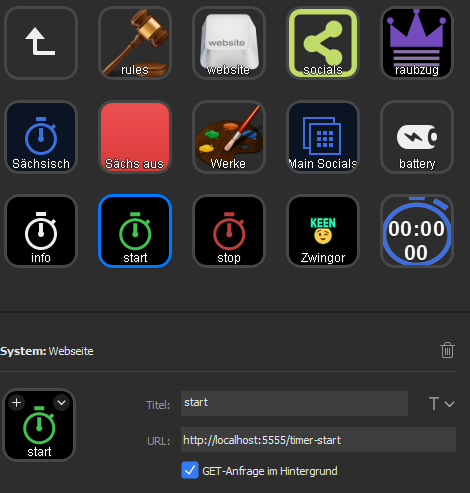
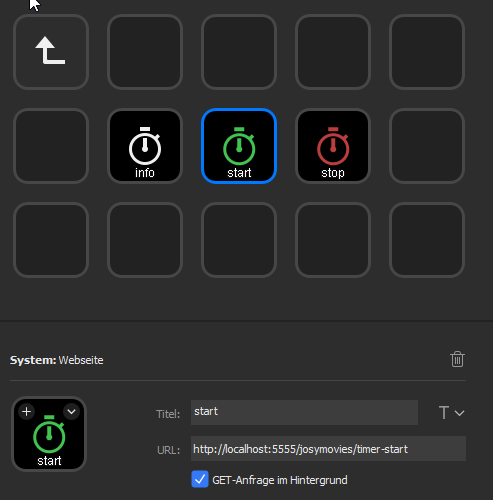
add multichannel support

diff --git a/index.js b/index.js
@@ -10,11 +10,6 @@ console.log(`Lampe385 Twitch get-request to twitch chat relay (NodeJS ${process.
 let tmi, client;
 const fs = require('fs');
 var config;
-const parseArgs = require('minimist');
-const args = parseArgs((process.argv.slice(2)));
-let { Resolver } = require('dns').promises;
-let dns = new Resolver({'timeout': 750});
-dns.setServers(['1.1.1.1', '8.8.8.8']);
 require('log-timestamp');
 
 try {
@@ -45,9 +40,9 @@ client = new tmi.Client({
 });
 client.connect();
 
+// Twitch CLIENT EVENTS
 client.on('connected', (address, port) => {
   console.log(`Connected: ${address}:${port}`);
-  // client.color('#2c46ff');
 });
 
 client.on('join', (channel, username, self) => {
@@ -70,12 +65,12 @@ process.on('SIGINT', function() {
   process.exit();
 });
 
-// Require express and create an instance of it
+
+// LOCAL WEBSERVER SETUP
 var express = require('express');
 var app = express();
 
-
-// on the request to root (localhost:3000/)
+// on the request to root (localhost:5555/)
 app.get('/', function (req, res) {
   res.send('<b>My</b> first express http server');
 });
@@ -85,28 +80,32 @@ app.listen(5555, function () {
   console.log('Twitch get-request to chat relay listening on port 5555.');
 });
 
+// Setup dynamic routes like
+// http://localhost:5555/CHANNELNAME/COMMANDNAME
 try {
   const data = fs.readFileSync('./commands.json', 'utf8');
-  const commands = JSON.parse(data);
+  const cmd_conf = JSON.parse(data);
+
   console.log("    Available Commands:")
-  commands.forEach(cmd => {
-    console.log(`${cmd.name.padStart(20, ' ')}: ${cmd.response}`);
-     app.get(`/${cmd.name}`, function (req, res) {
-       client.say(args.channel, `${cmd.response}`);
-       res.send('done');
-     });
-  });
-  console.log("========================================");
+  for (const [channel, commands] of Object.entries(cmd_conf[0])) {
+    console.log(`    Channel: ${channel.padStart(19, ' ')}`);
+    console.log("========================================");
+    commands.forEach(cmd => {
+      console.log(`${cmd.name.padStart(20, ' ')}: ${cmd.response}`);
+      app.get(`/${channel}/${cmd.name}`, function (req, res) {
+        client.say(channel, `${cmd.response}`);
+        res.send('done');
+      });
+    })
+    console.log("========================================");
+  }
 } catch (err) {
   console.log(`Error reading file from disk: ${err}`);
 }
-console.log(`ANSWERING IN CHANNEL: >>> ${args.channel} <<<`);
-console.log("========================================");
-
 
 // Change the 404 message modifing the middleware
 app.use(function(req, res, next) {
-  res.status(404).send("Sorry, that route doesn't exist. Have a nice day :)");
+  res.status(404).send("Sorry, that route doesn't exist.");
 });
 
 // EOF

diff --git a/README.md b/README.md
@@ -6,22 +6,17 @@ Ensure you have Node.js installed and available in your PATH. See here for [wind
 
 Download the repo whether by cloning it or downloading as zip (extract afterwards).
 
-1. Edit the `commands.json` to your hearts desire.
+1. Rename the `commands.json.default` to `commands.json` and edit it to your hearts desire.
+2. For each channel you want to send texts - setup a list of commands containing:
    1. name is the command name and the localhost endpoint
    2. response is the response that should be answered with
-2. Get your personal oauth token [HERE](https://twitchapps.com/tmi/) - NEVER share it with anybody!
-3. Insert your oauth token in `settings.json`
-4. Add the channels you want to join in `settings.json`
-5. Open a terminal and navigate to the folder containing the project.
-6. Install the required node modules with `npm install`
-7. Run the relay with `node index.js --channel THE_CHANNEL_TO_ANSWER_IN`
-
-`THE_CHANNEL_TO_ANSWER_IN` is the channel where the relay should send you responses to.
-
-Example
-```
-node index.js --channel lampe385
-```
+3. Get your personal oauth token [HERE](https://twitchapps.com/tmi/) - NEVER share it with anybody!
+4. Rename `config.json.default` to `config.json`
+5. Insert your oauth token in `config.json`
+6. Add the channels you want to join in `config.json`
+7. Open a terminal and navigate to the folder containing the project.
+8. Install the required node modules with `npm install`
+9. Run the relay with `node index.js`
 
 You can stop your relay with `[Ctrl] + [C]`.
 
@@ -32,10 +27,9 @@ To set it up correctly follow these instructions:
 1. Rename `twitch-relay.bat.default` to `twitch-relay.bat`
 2. Open the file `twitch-relay.bat`
 3. Replace `PATH/TO/YOUR/FOLDER/` with the real path to your relay. (e.g.: C:\Users\lampe385\workspace\twitch-relay)
-4. Replace `THE_CHANNEL_TO_ANSWER_IN` with the channel you want the relay to answer in. (e.g.: lampe385)
-5. Save the file.
-6. Execute the file.
-7. You may need to allow it to communicate through the fire wall.
+4. Save the file.
+5. Execute the file.
+6. You may need to allow it to communicate through the fire wall.
 
 If everything worked you command prompt should look like this:
 
